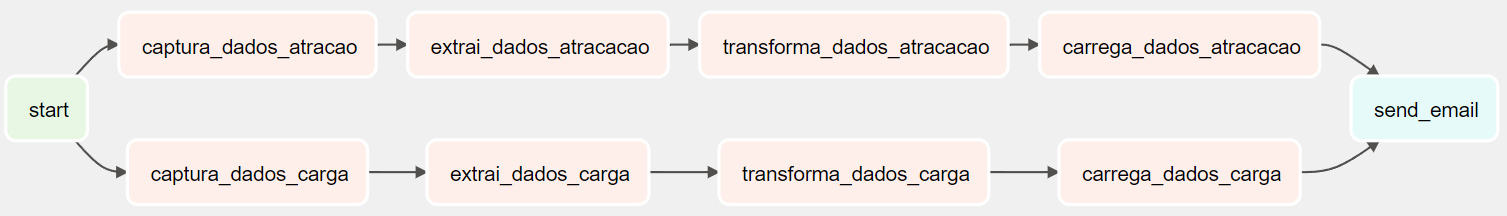
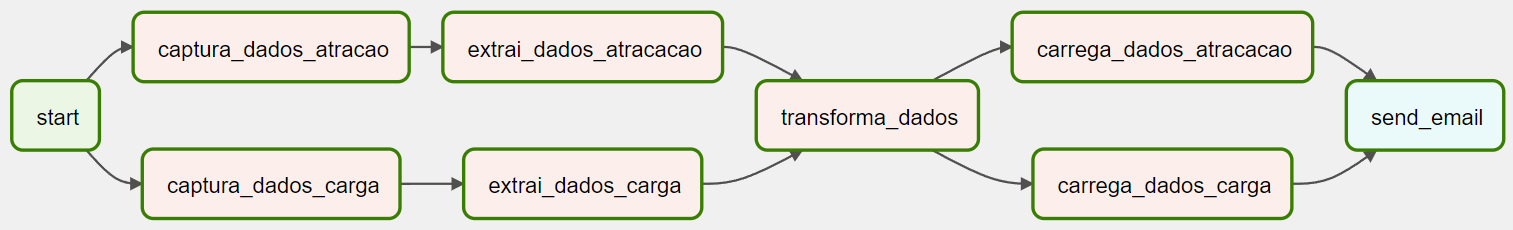
update questoes

Changed region(s): [[0.0, 0.0278, 0.998, 0.9722], [0.6549, 0.9167, 0.8733, 0.9722], [0.0, 0.6111, 0.0624, 0.6944]]

diff --git a/questoes/questoes.md b/questoes/questoes.md
@@ -32,12 +32,11 @@ Aqui estão as respostas das questões propostas.
     - extrai_dados_atracacao.py
     - extrai_dados_carga.py
 - **Transformação dos Dados:**
-    - transforma_dados_atracacao.py
-    - transforma_dados_carga.py
+    - transforma_dados.py
 
 ##### c) Criar uma consulta (query) otimizada.
 
-**Resposta:** Para atender os requisitos foi desenvolvida a consulta SQL com o nome: `numero_atracacao_nordeste.sql`. Além disso foram implementados scripts em python que fazem a carga dos dados em um Banco de Dados SQL Server, `carrega_dados_atracacao.py` e  `carrega_dados_carga.py`.
+**Resposta:** Para atender os requisitos foi desenvolvida a consulta SQL com o nome: `numero_atracacao.sql`. Além disso foram implementados scripts em python que fazem a carga dos dados em um Banco de Dados SQL Server, `carrega_dados_atracacao.py` e  `carrega_dados_carga.py`.
 
 ---
 
@@ -67,6 +66,55 @@ O serviço **Mail Trap** foi utilizado para o envio e o recebimento de e-mails. 
 
 **Email após a finalização da pipeline com sucesso:**
 ![email_sucesso](email_sucesso.png)
+
+---
+
+## 4 - Configuração de pipelines de CI/CD com Gitlab ou Github.
+
+A pipeline foi desenvolvida visando criar imagens diferentes no Dockerhub, desta forma, ao fazer o depois do Airflow podemos resgatar versões distintas dos códigos em cada ambiente.
+
+A implementação foi feita utilizando do nome da branch como tag e depois fazendo o push da imagem.
+
+**Abaixo o script da Pipeline:**
+```yml
+name: Build and Push Docker Image
+
+on:
+  push:
+    branches: [master, homologation] # Change to your desired branch name
+
+
+jobs:
+  build-and-push:
+    runs-on: ubuntu-latest
+
+    steps:
+    - name: Checkout source code
+      uses: actions/checkout@v2
+
+    - name: Extract branch name
+      shell: bash
+      run: echo "branch=$(echo ${GITHUB_REF#refs/heads/})" >>$GITHUB_OUTPUT
+      id: extract_branch
+
+    - name: Login to DockerHub
+      uses: docker/login-action@v1
+      with:
+        username: ${{ secrets.DOCKERHUB_USERNAME }}
+        password: ${{ secrets.DOCKERHUB_TOKEN }}
+
+    - name: Build and Push Docker Image
+      uses: docker/build-push-action@v2
+      with:
+        context: .
+        push: true
+        tags: belmino15/airflow_kubernetes:${{ steps.extract_branch.outputs.branch }}
+
+```
+
+
+**Imagens no repositório no Dockerhub:**
+![dockerhub](dockerhub.png)
 
 ---
 
